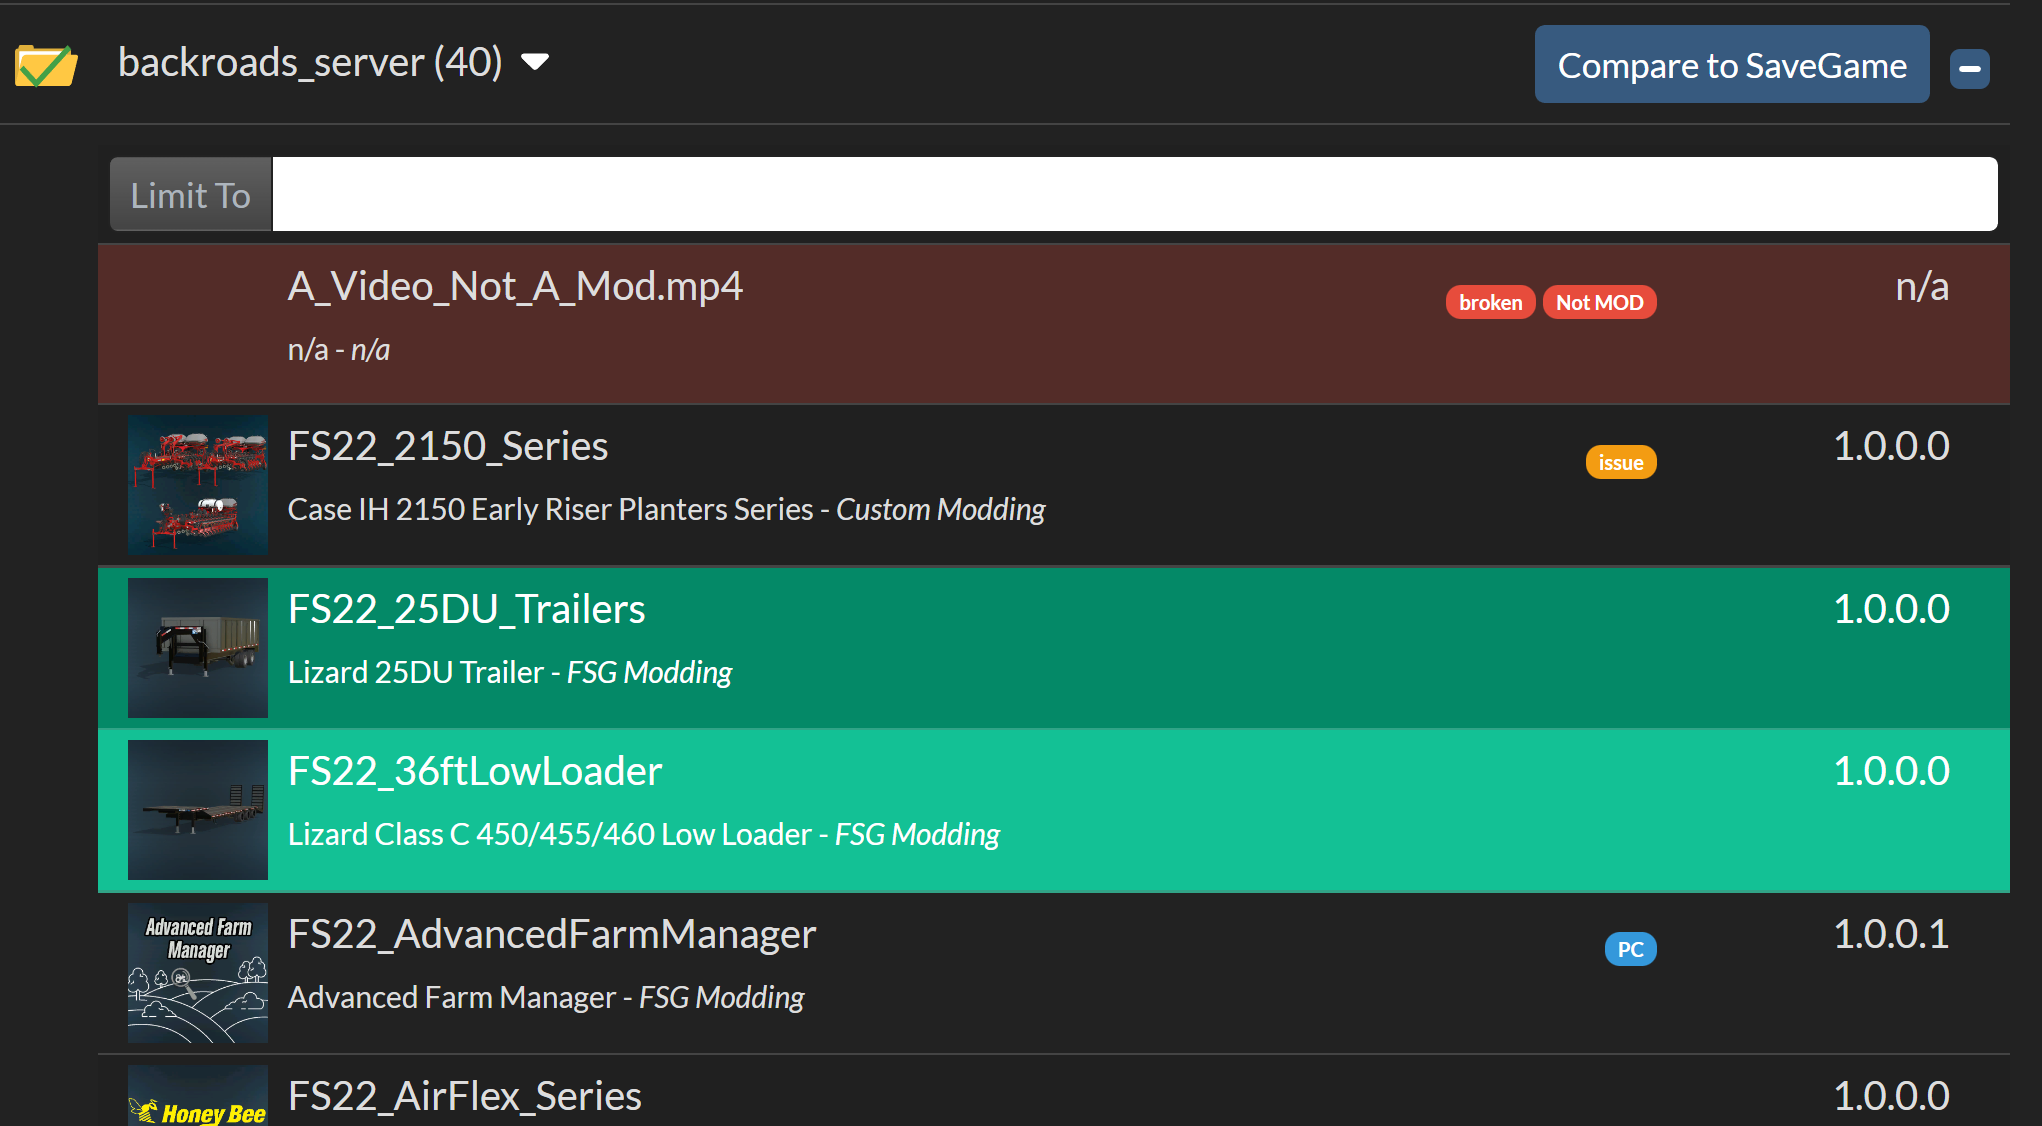
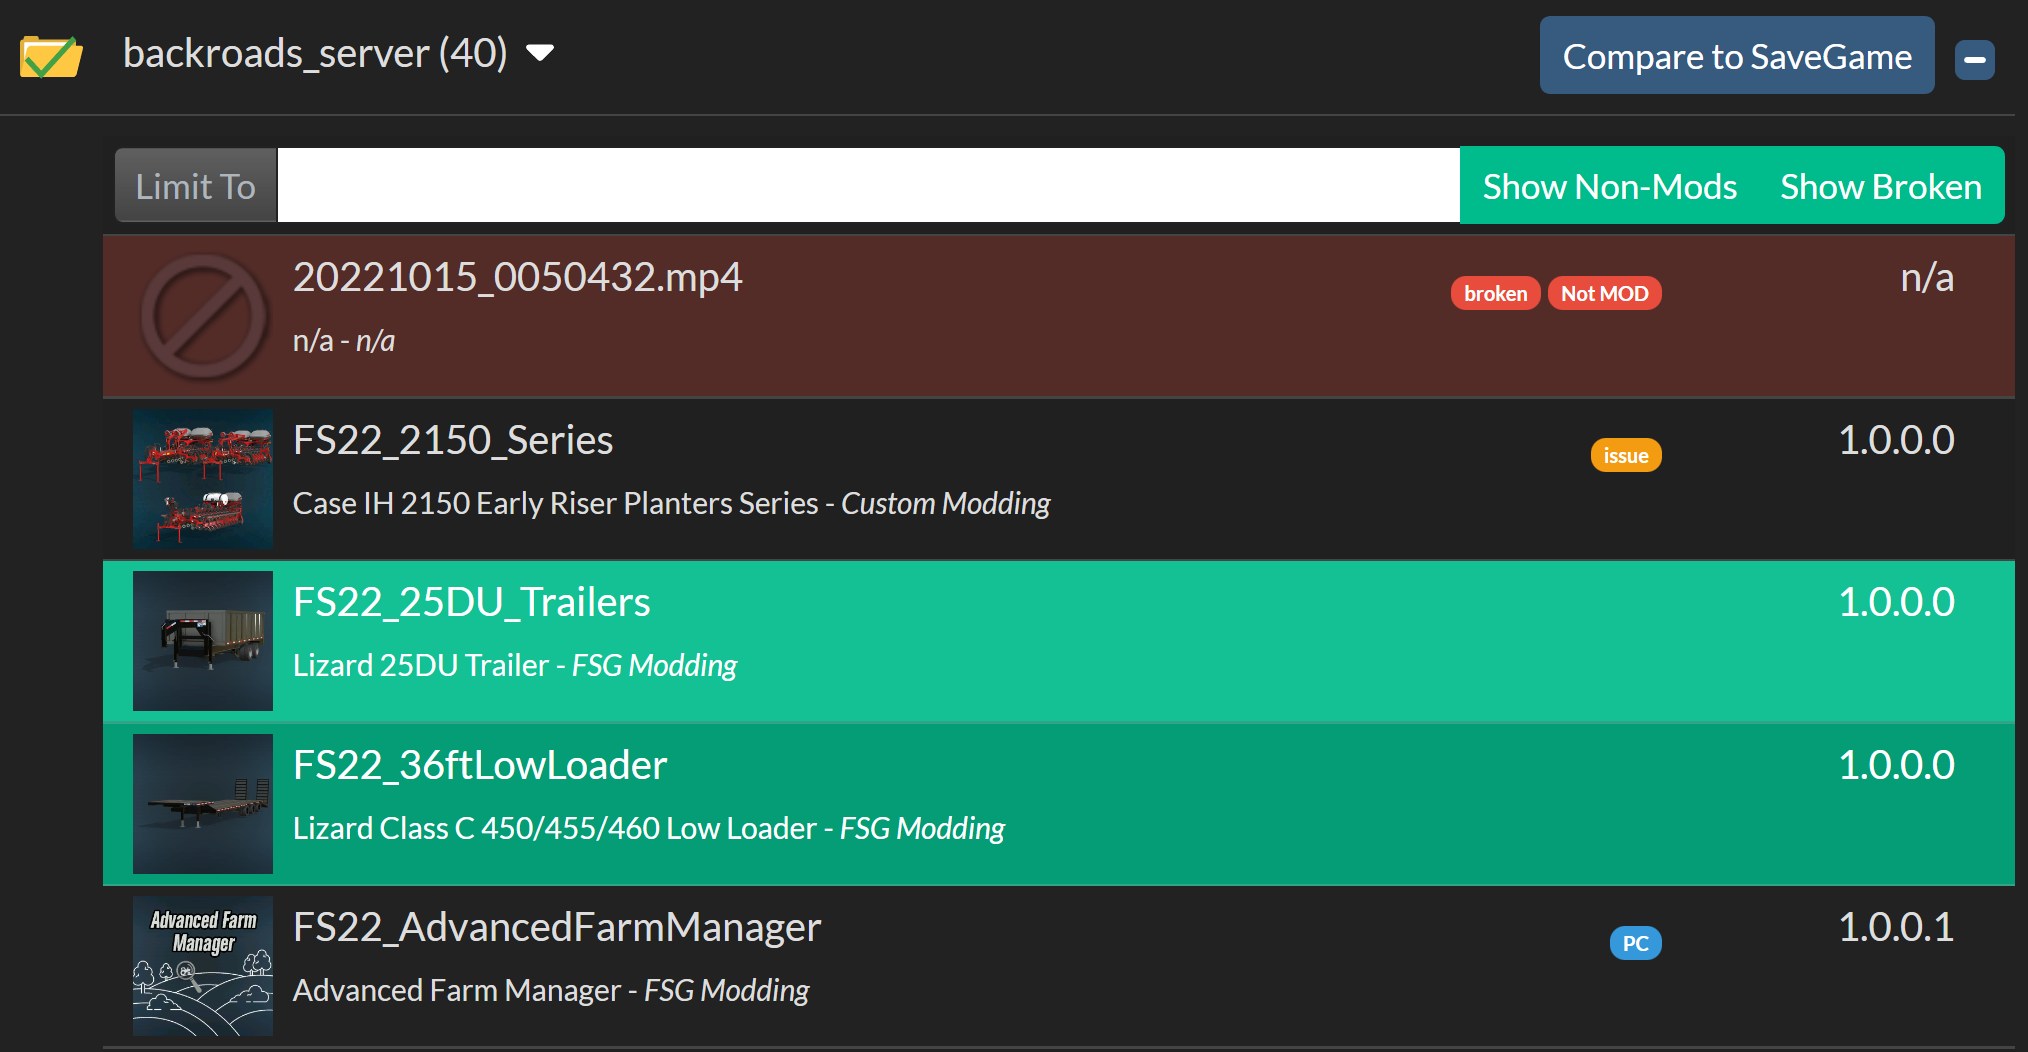
Re-write search, add buttons to hide non mods and broken mods.
Note: this version requires a new modCache - delete the old one if you have it.

Sanity check for debug mode added as well, it won't run debug in packed mode anymore, ever.  woot.

diff --git a/renderer/renderJS/assist_ui.js b/renderer/renderJS/assist_ui.js
@@ -134,10 +134,7 @@ function fileListClick(event) {
 		const closeTD = event.target.closest('td')
 		const closeTR = event.target.closest('tr')
 
-		if ( closeTR !== null && closeTR.classList.contains('mod-row') ) {
-			console.log('dispatching')
-			closeTD.click()
-		}
+		if ( closeTR !== null && closeTR.classList.contains('mod-row') ) { closeTD.click() }
 	}
 
 	if (event.target.tagName === 'INPUT' && event.target.classList.contains('folder_master_check') ) {
@@ -271,8 +268,10 @@ function makeModCollection(id, name, modsRows) {
 	tableHTML.push('<tr><td colspan="4">')
 	tableHTML.push('<div class="input-group input-group-sm mb-0"><span class="input-group-text bg-gradient"><l10n name="filter_only"></l10n></span>')
 	tableHTML.push(`<input type="text" id="${id}_mods__input" onkeyup="clientFilterTable('${id}_mods')" class="form-control">`)
-	tableHTML.push('<button class="btn btn-success btn-sm" type="button"><l10n name="show_nonmod"></l10n></button>')
-	tableHTML.push('<button class="btn btn-success btn-sm" type="button"><l10n name="show_broken"></l10n></button>')
+	tableHTML.push(`<input type="checkbox" id="${id}_mods__show_non_mod" onchange="clientFilterTable('${id}_mods')" class="btn-check" autocomplete="off" checked>`)
+	tableHTML.push(`<label class="btn btn-outline-success" for="${id}_mods__show_non_mod"><l10n name="show_non_mod"></l10n></label>`)
+	tableHTML.push(`<input type="checkbox" id="${id}_mods__show_broken" onchange="clientFilterTable('${id}_mods')" class="btn-check" autocomplete="off" checked>`)
+	tableHTML.push(`<label class="btn btn-outline-success" for="${id}_mods__show_broken"><l10n name="show_broken"></l10n></label>`)
 	tableHTML.push('</div></td></tr>')
 	tableHTML.push(modsRows.join(''))
 	tableHTML.push('</table></td></tr>')
@@ -340,15 +339,25 @@ function deSelectAll() {
 function clientFilterTable(table) {
 	const theseMods     = document.getElementById(table).querySelectorAll('.mod-row')
 	const rawSearchTerm = document.getElementById(`${table}__input`).value.toLowerCase()
+	const showNonMods   = document.getElementById(`${table}__show_non_mod`).checked
+	const showBroken    = document.getElementById(`${table}__show_broken`).checked
 	const inverseSearch = rawSearchTerm.startsWith('!')
 	const searchTerm    = ( inverseSearch ) ? rawSearchTerm.substring(1) : rawSearchTerm
 
 	theseMods.forEach((modRow) => {
-		if ( searchTerm.length < 2 ) { modRow.classList.remove('d-none'); return }
+		modRow.classList.remove('d-none')
+
+		if ( modRow.querySelector('input').checked ) { return }
 		
-		const modText   = modRow.querySelector('td:nth-child(3)').innerText.toLowerCase()
-		const matchText = ( inverseSearch ) ? !modText.match(searchTerm) : modText.match(searchTerm)
-		const showMe    = modRow.querySelector('input').checked || matchText
+		const modBadges = modRow.querySelector('.issue_badges').innerHTML
+		
+		if ( !showBroken  && modBadges.match('mod_badge_broken') ) { modRow.classList.add('d-none'); return }
+		if ( !showNonMods && modBadges.match('mod_badge_notmod') ) { modRow.classList.add('d-none'); return }
+
+		if ( searchTerm.length < ((inverseSearch) ? 3 : 2) ) { modRow.classList.remove('d-none'); return }
+		
+		const modText = modRow.querySelector('td:nth-child(3)').innerText.toLowerCase()
+		const showMe  = ( inverseSearch ) ? !modText.match(searchTerm) : modText.match(searchTerm)
 
 		modRow.classList[(showMe?'remove':'add')]('d-none')
 	})
@@ -360,9 +369,7 @@ window.addEventListener('show.bs.collapse', () => { deSelectAll() })
 window.addEventListener('DOMContentLoaded', () => {	processL10N() })
 
 window.addEventListener('click', (event) => {
-	document.querySelectorAll('.tooltip').forEach((tooltip) => {
-		tooltip.remove()
-	})
+	document.querySelectorAll('.tooltip').forEach((tooltip) => { tooltip.remove() })
 	fileListClick(event)
 })
 

diff --git a/renderer/prefs.html b/renderer/prefs.html
@@ -58,13 +58,13 @@
 			<div class="row ms-2">
 				<label for="main_window_x" class="col-6 col-form-label"><l10n name="user_pref_setting_window_x"></l10n></label>
 				<div class="col-6">
-					<input onchange="clientSetPref('main_window_x')" type="number" class="form-control form-control-sm" id="main_window_x">
+					<input onchange="clientSetPref('main_window_x')" type="number" class="form-control form-control-sm" id="main_window_x" min="100" max="4096">
 				</div>
 			</div>
 			<div class="row ms-2">
 				<label for="main_window_y" class="col-6 col-form-label"><l10n name="user_pref_setting_window_y"></l10n></label>
 				<div class="col-6">
-					<input onchange="clientSetPref('main_window_y')" type="number" class="form-control form-control-sm" id="main_window_y">
+					<input onchange="clientSetPref('main_window_y')" type="number" class="form-control form-control-sm" id="main_window_y" min="100" max="4096">
 				</div>
 			</div>
 			<div class="row ms-2">
@@ -85,13 +85,13 @@
 			<div class="row ms-2">
 				<label for="detail_window_x" class="col-6 col-form-label"><l10n name="user_pref_setting_window_x"></l10n></label>
 				<div class="col-6">
-					<input onchange="clientSetPref('detail_window_x')" type="number" class="form-control form-control-sm" id="detail_window_x">
+					<input onchange="clientSetPref('detail_window_x')" type="number" class="form-control form-control-sm" id="detail_window_x" min="100" max="4096">
 				</div>
 			</div>
 			<div class="row ms-2">
 				<label for="detail_window_y" class="col-6 col-form-label"><l10n name="user_pref_setting_window_y"></l10n></label>
 				<div class="col-6">
-					<input onchange="clientSetPref('detail_window_y')" type="number" class="form-control form-control-sm" id="detail_window_y">
+					<input onchange="clientSetPref('detail_window_y')" type="number" class="form-control form-control-sm" id="detail_window_y" min="100" max="4096">
 				</div>
 			</div>
 			<div class="row ms-2">

diff --git a/modAssist_main.js b/modAssist_main.js
@@ -6,14 +6,14 @@
 
 // Main Program
 
-
-
 const { app, BrowserWindow, ipcMain, globalShortcut, shell, dialog, Menu, Tray, net } = require('electron')
 
 const { autoUpdater } = require('electron-updater')
 
-const devDebug  = true
-const skipCache = false
+let devDebug  = false
+let skipCache = false
+
+if ( app.isPackaged ) { devDebug = false; skipCache = false }
 
 if (process.platform === 'win32') { autoUpdater.checkForUpdatesAndNotify() }
 

diff --git a/lib/single-mod-checker.js b/lib/single-mod-checker.js
@@ -187,6 +187,7 @@ class modFileChecker {
 	
 	get storable() {
 		const storable = {
+			canNotUse         : this.canNotUse,
 			giantsHash        : this.giantsHash,
 			md5Sum            : this.md5Sum,
 			fileDetail        : this.fileDetail,

diff --git a/README.md b/README.md
@@ -134,13 +134,15 @@ The active list is marked with a green check over the folder.
 - __Copy To...__ : This will prompt you which collection you wish to copy the selected files into. This button is only available when a one or more files are selected.
 - __Delete__ : This will prompt you to make sure you wish to delete the selected files. This button is only available when a one or more files are selected.
 - __Show in Explorer__ : Open a windows explorer window with the selected file pre-selected. This button is only available when a single file is selected.
-- __Find on ModHub__ : Attempt to open this mod on the modhub. This will fail for mods not on the modhub, and is not available for non-mod files. This button is only available when a single file is selected.
+- __Find on ModHub__ : Attempt to open this mod on the modhub. This button is only available when a single file is selected, and Mod Assistant knows it is on the modhub. The list of mods is updated roughly hourly, and is refreshed when you restart the app.
 
 ##### Search Feature
 
 ![collections search](screen_shots/005-collect_search.png)
 
 This allows you to refine which parts of the collection you see.  This is a simple full text search, however preceding the search string with `!` will show mods that do _not_ match the string.  In this example, `FS22_25DU_Trailers` is still shown, even though it does not match the string, because it was selected prior to searching.  This is a safety measure so you do not accidentally move, copy, or delete files you were not intending to.
+
+The `Show Non-Mods` button will hide files that Mod Assistant thinks are not mods, and the `Show Broken` button will hide mods that Mod Assistant believes are broken
 
 ### Detail Window
 
